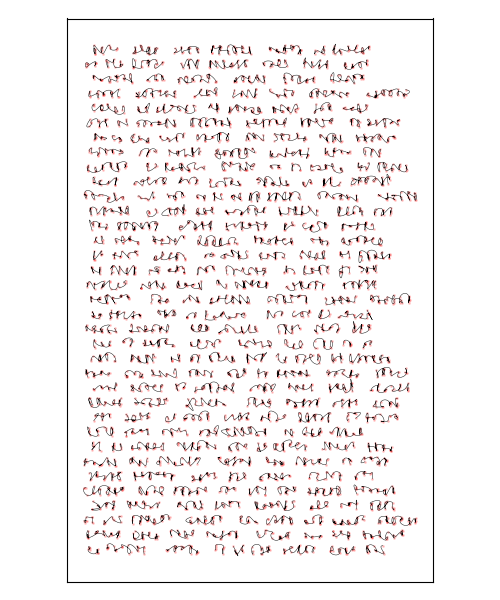
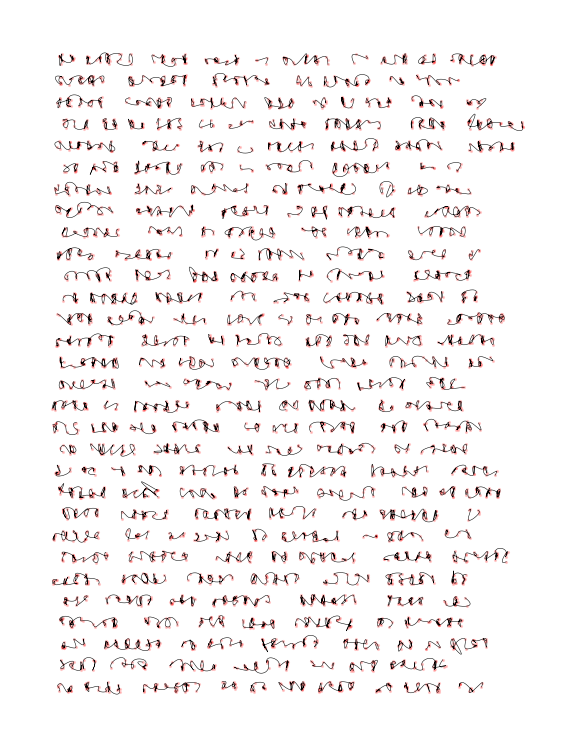
Big changes.

Changed region(s): [[0.09, 0.03, 0.93, 0.93], [0.81, 0.9, 0.84, 0.93]]

diff --git a/inconv_words.py b/inconv_words.py
@@ -29,7 +29,7 @@ def random_coords(x_loc, x_stretch, y_loc, y_stretch, n):
     return column_stack([x, y])
 
 
-def word_chain(chain_len, x_loc, x_stretch, y_loc, y_stretch, min_n, max_n):
+def char_chain(chain_len, x_loc, x_stretch, y_loc, y_stretch, min_n, max_n):
 
     def rand_n(min_n, max_n):
         return randint(min_n, max_n, 1)
@@ -62,57 +62,96 @@ def smudge(mod):
     return ((random() - 0.5) * mod)
 
 
+def chain_to_plot(ax, chain_len, x_loc, y_loc, subparams):
+    subparams['chain_len'] = chain_len
+    subparams['x_loc']     = x_loc
+    subparams['y_loc']     = y_loc
+
+    xy    = char_chain(**subparams)
+    x, y  = xy_to_coords(xy)
+    curve = interpolate_points(x, y)
+
+    draw_word(ax, x, y, curve, True)
+
+
+def chain_words( ax, x_init, x_limit, word_gap, y_loc, y_smudge, min_chain
+               , max_chain, subparams):
+
+    x = x_init()
+    while x < x_limit:
+        chain_len = randint(min_chain, max_chain)
+        chain_to_plot( ax
+                     , chain_len
+                     , x, y_loc + smudge(y_smudge)
+                     , subparams
+                     )
+        x += (chain_len * word_gap())
+
+
+def write_lines( ax, n_lines, x_init, x_limit, word_gap, y_scale, y_smudge
+               , min_chain, max_chain, subparams):
+    for i in range(n_lines):
+        y_loc = i * y_scale
+        chain_words( ax
+                   , x_init
+                   , x_limit
+                   , word_gap
+                   , y_loc
+                   , y_smudge
+                   , min_chain
+                   , max_chain
+                   , subparams
+                   )
+
+
+def draw_word(ax, x, y, curve, points=False):
+    if points:
+        ax.plot(x, y, 'ro', ms=1, alpha=0.175)
+    ax.plot(curve[0], curve[1], c='k', lw=0.325)
+
+
 def main():
 
-    def chain_to_plot(ax, chain_len, x_loc, y_loc):
-        params = {'x_stretch': 1, 'y_stretch': 3, 'min_n': 3, 'max_n': 7}
-        params['chain_len'] = chain_len
-        params['x_loc']     = x_loc
-        params['y_loc']     = y_loc
+    def plot_params(params, fig_params, filename):
 
-        xy     = word_chain(**params)
-        x, y   = xy_to_coords(xy)
-        curve  = interpolate_points(x, y)
+        def init_plot(fig_params):
+            fig, ax = plt.subplots(**fig_params)
+            ax.set_aspect('equal')
+            ax.set_xticks([])
+            ax.set_yticks([])
+            ax.axis('off')
+            return fig, ax
 
-        draw_word(ax, x, y, curve, True)
+        def save_plot():
+            plt.tight_layout()
+            plt.savefig(filename)
+            plt.close()
 
-    def chain_words(y_loc, x_limit):
-
-        def spacing_scale(x_pos):
-            return (x_pos * (3 + (random() * 0.5)))
-
-        x = random() * 3.5
-        while x < x_limit:
-            chain_len = randint(2, 7)
-            chain_to_plot(ax, chain_len, x, y_loc + smudge(0.35))
-            x += spacing_scale(chain_len)
-
-    def write_lines(n_lines, y_scale, x_limit):
-        for i in range(n_lines):
-            y = i * y_scale
-            chain_words(y, x_limit)
-
-    def init_plot():
-        fig, ax = plt.subplots(figsize=(5, 6))
-        ax.set_aspect('equal')
-        ax.set_xticks([])
-        ax.set_yticks([])
-        return fig, ax
-
-    def save_plot():
-        plt.tight_layout()
-        plt.savefig('inconv_words.png')
-        plt.close()
-
-    def draw_word(ax, x, y, curve, points=False):
-        if points:
-            ax.plot(x, y, 'ro', ms=1, alpha=0.175)
-        ax.plot(curve[0], curve[1], c='k', lw=0.325)
+        _, ax = init_plot(fig_params)
+        params['ax'] = ax
+        write_lines(**params)
+        save_plot()
 
     seed(2)
-    _, ax = init_plot()
-    write_lines(n_lines=35, y_scale=5, x_limit=100)
-    save_plot()
+    fig_params = { 'figsize'  : (5, 6.5)
+                 , 'dpi'      : 115
+                 }
+    params     = { 'n_lines'  : 30
+                 , 'x_init'   : lambda: random() * 3.5
+                 , 'x_limit'  : 100
+                 , 'word_gap' : lambda: (3 + (random() * 0.5))
+                 , 'y_scale'  : 5.15
+                 , 'y_smudge' : 0.35
+                 , 'min_chain': 2
+                 , 'max_chain': 7
+                 , 'subparams': { 'x_stretch': 1
+                                , 'y_stretch': 2.5
+                                , 'min_n'    : 2
+                                , 'max_n'    : 10
+                                }
+                 }
+
+    plot_params(params, fig_params, 'inconv_words.png')
 
 
 if __name__ == '__main__':
